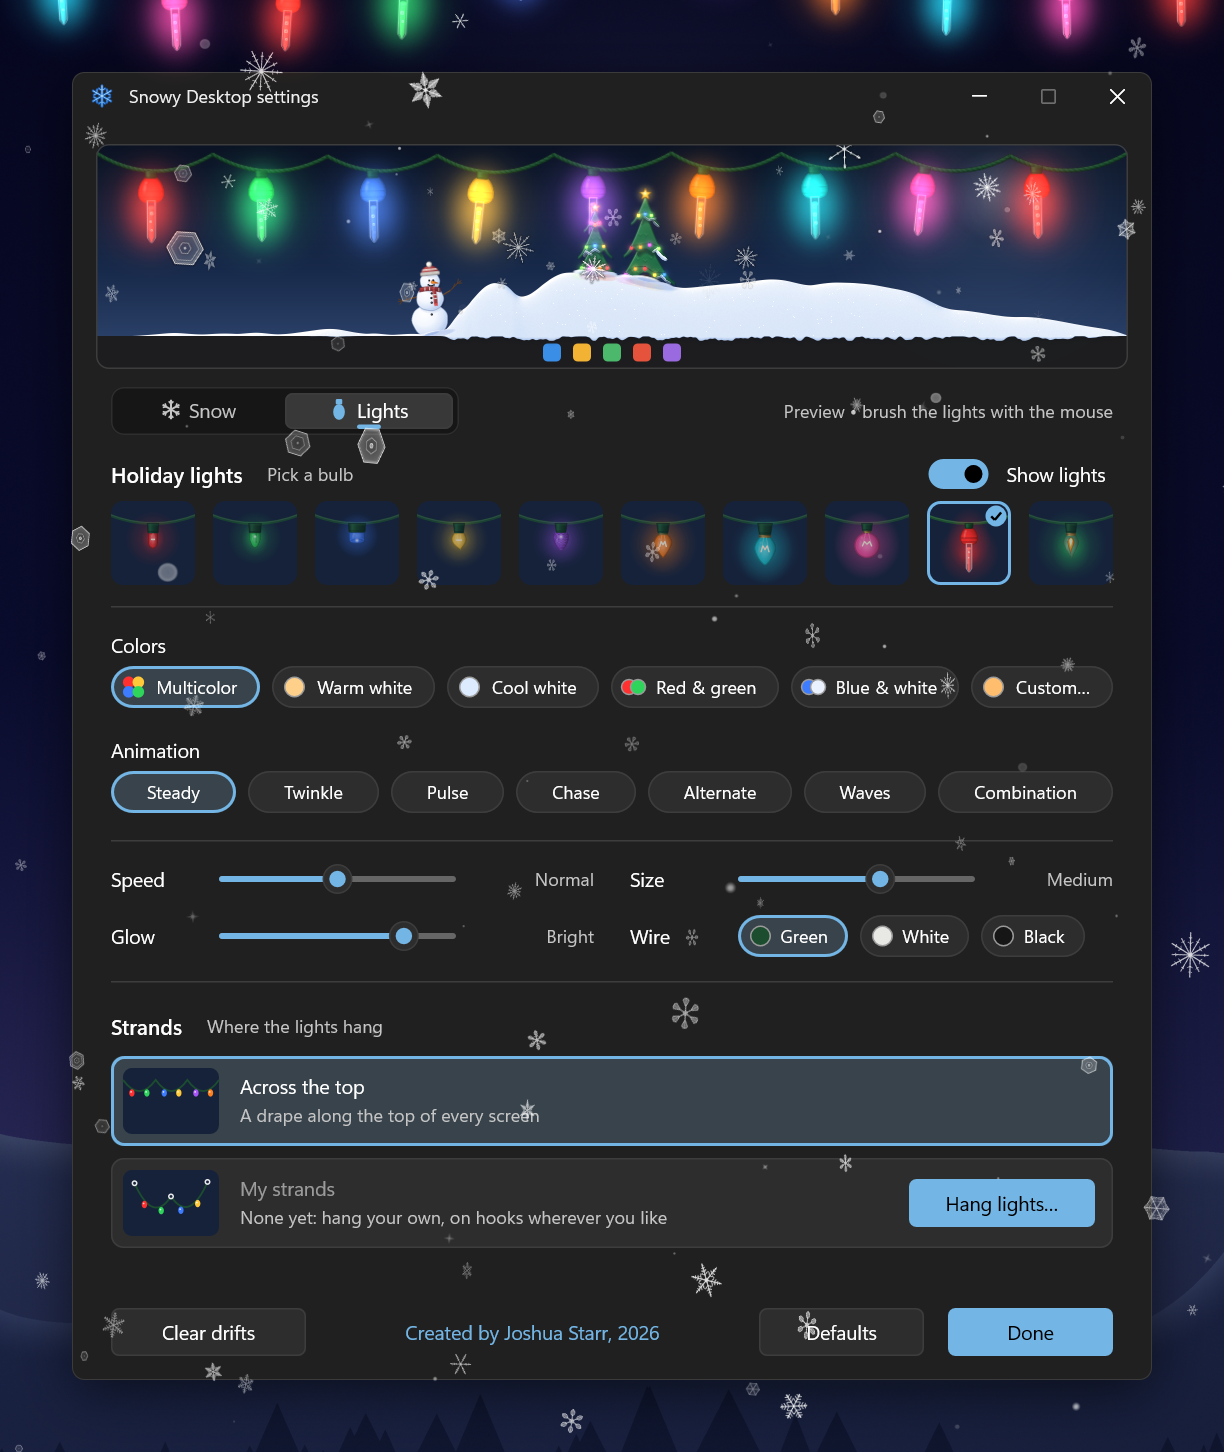
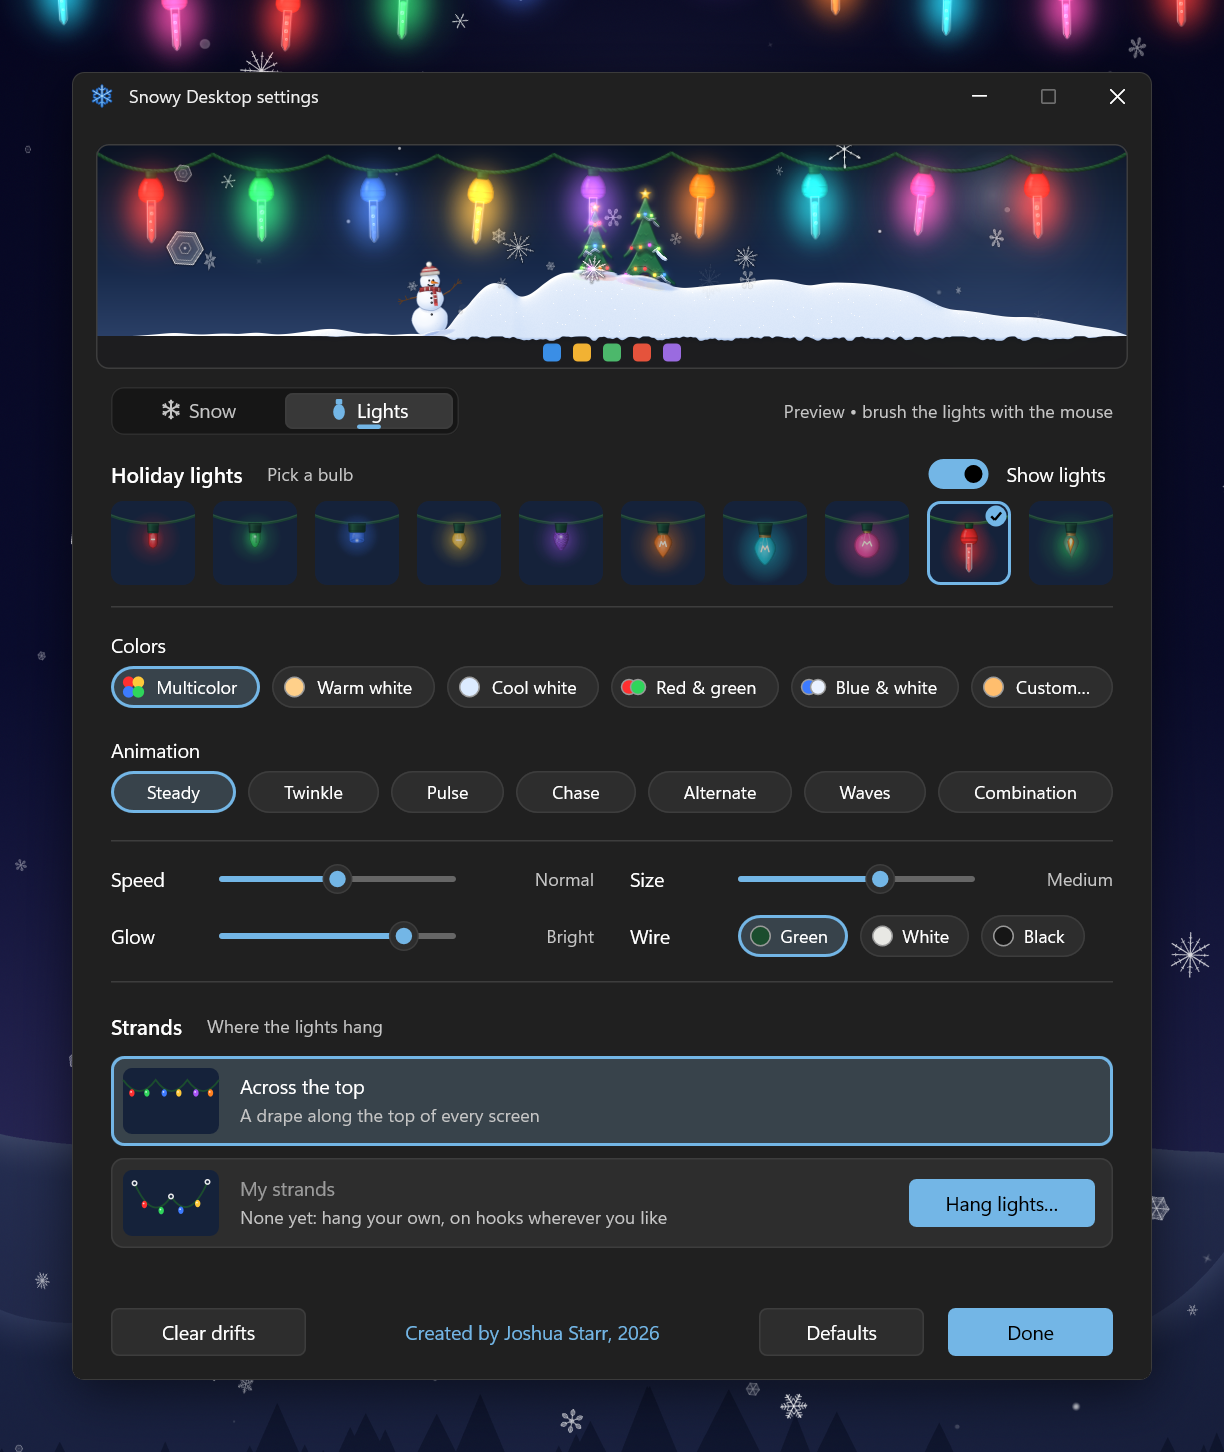
README: holiday lights in full
The holiday lights section covers the ten bulbs (with a gallery), the color
sets, wires and patterns (with a picture of each set), where the strands
hang, and how they stay out of the way. Hang your own describes the real
controls, with a close-up of the hanging-mode bar. The settings section
shows both tabs, the tray menu its Holiday lights submenu, and Build from
source the developer tools. The exe is now about 1 MB.

diff --git a/README.md b/README.md
@@ -1,16 +1,18 @@
 # Snowy Desktop
 
-Snow for your Windows desktop. Flakes drift across every monitor, sway in gusty
-wind, and gently pile up in haphazard drifts along the top of the taskbar. Little
-holiday trees and snowmen stand in the drifts, the trees' lights glowing, and
-strings of holiday lights drape across the top of the screen, or wherever you hang
-them. You can sweep the snow around with your mouse.
+Snow and holiday lights for your Windows desktop. Flakes drift across every monitor,
+sway in gusty wind, and gently pile up in haphazard drifts along the top of the
+taskbar. Strings of holiday lights drape across the top of the screen, or hang
+wherever you put them, glowing and swaying in the wind. Little holiday trees and
+snowmen stand in the drifts, the trees' lights glowing too. You can sweep the snow
+around and brush the lights with your mouse.
 
 ![Holiday lights draped across the top of a Windows 11 desktop at night, snow falling and settling on the taskbar](docs/desktop.png)
 
 Snowy Desktop is a small native Windows 10/11 app written in C++ with Direct2D and
-DirectComposition. It is a single ~0.6 MB `.exe` that lives in the notification
-area, and clicks pass straight through the snow to whatever is underneath.
+DirectComposition. It is a single ~1 MB `.exe` that lives in the notification
+area, and clicks pass straight through the snow and the lights to whatever is
+underneath.
 
 ## Snow drifts
 
@@ -48,42 +50,100 @@ spots, with snowmen in the open stretches between them, turned towards the trees
 ## Holiday lights
 
 Strings of holiday lights drape across the top of every monitor, or hang on hooks
-you place yourself.
+you place yourself. Each span hangs in a natural curve, sways in the gusts and swings
+when you brush it with the mouse, the bulbs jiggling on the wire. Their glow adds
+light to the desktop, and neighboring bulbs' glows run together into a soft band.
 
 ![A strand of glowing multicolor C7 bulbs draped across the top of the screen](docs/lights.png)
 
-- **Ten bulb types**: mini incandescent, mini LED, wide-angle LED, C5, C6
-  strawberry, C7, C9, G40 globe, bubble lights with bubbles rising in their tubes, and
-  flickering candle lamps.
-- **Colors**: multicolor, warm white, cool white, red and green, blue and white, or any
-  custom color. The wire comes in green, white or black.
-- **Animations**: steady, twinkle (bulbs drop out at random), pulse, chase, alternate,
-  waves rolling along the strand, or a combination that cycles through them all, like a
-  real light controller. The *Speed* slider sets the pace.
-- **Real bulbs**: incandescent bulbs warm up and cool down, glowing orange as they dim;
-  LEDs switch crisply and keep their colour. The glow adds light to the desktop, and
-  neighbouring bulbs' glows run together into a soft band.
-- **Gravity and wind**: each span hangs in a natural curve, sways in the gusts, and swings
-  when you brush it with the mouse, the bulbs jiggling on the wire.
-- **Stays out of the way**: when the snow is drawn over windows, the lights fade where a
-  window covers them, so they never sit over your browser tabs. Nothing flashes more
-  than a few times a second at any speed, and with Windows' animation effects turned
-  off the lights burn steadily.
+### Bulbs
+
+Ten kinds of bulb, in true proportion to each other: mini incandescent, mini LED,
+wide-angle LED, C5, C6 strawberry, C7, C9, G40 globe, bubble lights and flickering
+candle lamps.
+
+![All ten bulb types, each on a short strand of multicolor lights: Mini, Mini LED, Wide-angle LED, C5 twinkle, C6 strawberry, C7, C9, Globe, Bubble light and Candle flicker](docs/bulbs.png)
+
+- Incandescent bulbs warm up and cool down, glowing orange as they dim. The LEDs
+  (mini LED, wide-angle LED and C6) switch crisply and keep their color.
+- Bubble lights take a few seconds to warm up before the bubbles rise in their tubes.
+  Candle lamps flicker, and now and then gutter.
+- When the lights come on, the bulbs light one after another along each strand.
+
+### Colors, wire and patterns
+
+![Six strands of C7 bulbs: multicolor, warm white, cool white, red and green, blue and white, and a custom violet, on green, white and black wire](docs/colors.png)
+
+- **Colors**: multicolor, warm white, cool white, red and green, blue and white, or
+  any custom color.
+- **Wire**: green, white or black.
+- **Animation**:
+  - steady;
+  - twinkle: bulbs drop out at random;
+  - pulse: the whole strand breathes;
+  - chase: sets of bulbs march along the strand;
+  - alternate: odd and even bulbs take turns;
+  - waves: brightness rolls along the strand;
+  - combination: each of the others in turn, twelve seconds apiece, cross-fading like
+    a real light controller.
+- **Speed** sets the pace of the pattern, **Size** how big the bulbs are, and **Glow**
+  how much light they throw, from none to dazzling.
+
+### Where they hang
+
+- **Across the top**: one drape along the top of every screen, scalloped between hooks
+  a little irregularly, as if hung by hand. A short screen gets more, shallower
+  scallops.
+- **My strands**: the strands you hung yourself (see below).
+
+### Out of the way
+
+- When the snow is drawn over windows, each bulb fades out where a window covers it
+  and back in when the window moves away, so the lights never sit over your browser
+  tabs. With *Snow behind windows*, windows cover them anyway.
+- No bulb flashes more than three times a second, however fast the *Speed* slider.
+- With Windows' animation effects turned off, the lights burn steadily: they come on
+  all at once and hang still, with no swaying, flickering or bubbling.
+- They hide along with the snow: when it is paused, during fullscreen apps and on the
+  lock screen.
 
 ### Hang your own
 
-Choose *Hang lights...* in the settings or the right-click menu. The screen dims a
-little and a small bar explains the controls:
+Choose *Hang lights...* on the settings window's Lights tab or in the right-click
+menu's *Holiday lights* submenu. The screen dims a little, the mouse works on the
+lights instead of passing through to your windows, and a small bar at the bottom of
+the screen explains the controls. Strands you hung before come back up on their hooks.
+On a screen with none of yours, while the lights hang across the top, the drape comes
+up on hooks of its own, ready to move, add to or take down.
 
 ![Hanging lights: strands across the top and down the sides of the screen, hooks, and the hanging-mode bar](docs/hang-lights.png)
 
-- click to place hooks; a live span sags from the last hook to the pointer, and you can
-  press and drag to place the next one;
-- right-click (or Esc) ends the strand; scroll for more or less sag;
-- drag a hook to move it, Delete removes a hook or strand, Ctrl+Z undoes;
-- hooks snap to the screen edges; along the sides, clips go in on their own so the run
-  scallops gently instead of hanging in one long loop;
-- Enter, Esc or *Done* when you're finished.
+- **Click** to place hooks. A live span sags from the last hook to the pointer. Or
+  press, drag and let go to hang a span in one stroke.
+- **Right-click**, **Esc**, or a click on the strand's last hook ends the strand. A
+  strand needs at least two hooks.
+- **Scroll** for more or less sag: on the span you are placing, or on the span or hook
+  under the pointer.
+- **Drag a hook** to move it (when you are not placing a strand). Esc or a right-click
+  while dragging puts it back.
+- **Delete** removes the hook under the pointer, or the whole strand when the pointer
+  is on its wire. While placing, it takes back the last hook.
+- **Ctrl+Z** or **Backspace** undoes; **Ctrl+Y** or **Ctrl+Shift+Z** redoes.
+- **Clear all** takes every strand down (that can be undone too).
+- Hooks **snap** to the screen edges and corners. Along the sides, clips go in on
+  their own so the run scallops gently instead of hanging in one long loop.
+- **Enter** or *Done* when you're finished, or Esc when no strand or hook is in hand.
+
+The pointer shows what is under it: a crosshair where a click hangs a hook, a four-way
+arrow over a hook you can drag, and a hand over a wire, which Delete and scroll act on.
+The bar shows the sag of the span at hand, or how many strands are up, and steps aside
+while you work near it:
+
+![The hanging-mode bar: the controls in two lines, the sag of the span at hand, and the Clear all and Done buttons](docs/hang-hud.png)
+
+When you're done, the lights come on, hung on your strands (*My strands*); take every
+strand down and the lights go off. Hanging also ends on its own after ten minutes without
+input, or when you switch to another app or lock the screen, keeping what you hung.
 
 Each strand belongs to the monitor it starts on and is kept as fractions of that screen,
 so it stays put when you change the resolution.
@@ -91,50 +151,74 @@ so it stays put when you change the resolution.
 ## Settings
 
 Click the snowflake in the notification area to open the settings. The live preview
-at the top shows your choices immediately, and you can play with the snow there
-using the mouse.
+at the top shows your choices immediately; you can play with the snow there using the
+mouse, and brush the lights. Under it are two tabs, **Snow** and **Lights**.
 
-![The settings window's Lights tab: live preview, bulb picker, colors, animations, sliders and strands](docs/settings.png)
+![The settings window's Snow tab: live preview, flake designs, sliders, snow colors and switches](docs/settings-snow.png)
 
-- **20 flake designs**, each switched on or off individually:
+The **Snow** tab:
+
+- **20 flake designs**, each switched on or off individually (*Select all* and
+  *Recommended* choose in one go):
   - powder, soft bokeh flakes, crosses, asterisks and twinkling sparkles;
   - seven kinds of ice crystal: dendrites, sectored plates, ferns, hexagonal plates, stellar plates, needles and twelve-branched stars;
   - eight classic pixel-art flakes.
-- **Amount, speed, size, wind, gusts and drift depth** sliders, and how many **trees**
+- **Amount, speed, size, wind, gusts and drifts** sliders, and how many **trees**
   and **snowmen**.
 - **Color**: white, ice blue, pastel rainbow, or any custom color.
-- **Lights** (on their own tab): the bulb type, colors, animation, wire, speed, size
-  and glow, and where the strands hang.
 - **Switches**:
-  - pause;
-  - mouse play;
-  - outlines that keep flakes visible over white windows;
+  - pause snow (the lights go with it);
+  - mouse plays with snow (and brushes the lights);
+  - outline flakes on light windows, so they stay visible over white windows;
   - hide during fullscreen apps;
   - snow on all monitors;
   - snow behind windows, so it only shows where the desktop does;
   - show trees and show snowmen;
   - start with Windows.
 
-Right-click the snowflake for a quick menu with presets for everything above.
+![The settings window's Lights tab: live preview, bulb picker, colors, animations, sliders, wire and strands](docs/settings.png)
 
-> Images: rendered by Snowy Desktop's own snow engine and settings window on a staged 4K
-> Windows 11 desktop at 150% scaling (the close-up of the trees and snowmen at 200%).
+The **Lights** tab:
+
+- **Show lights**, and the **bulb**: ten tiles (hover one for its name).
+- **Colors**: multicolor, warm white, cool white, red & green, blue & white, or any
+  custom color.
+- **Animation**: steady, twinkle, pulse, chase, alternate, waves or combination.
+- **Speed, size and glow** sliders, and the **wire**: green, white or black.
+- **Strands**: *Across the top* or *My strands*, with the *Hang lights...* button.
+  *Clear my strands* takes yours down (click it twice).
+
+Along the bottom of both tabs, *Clear drifts* sweeps the taskbar clean and *Defaults*
+puts everything back, except pausing, *Start with Windows* and the strands you hung.
+
+Right-click the snowflake for a quick menu: pause, presets for the snow, the trees and
+the snowmen, the switches, and a *Holiday lights* submenu to show the lights, hang
+them, and pick the bulb, animation, colors, speed (slow, normal or fast) and *Across
+the top* or *My strands*.
+
+> Images: the screenshots are rendered by Snowy Desktop's own snow engine and settings
+> window on a staged 4K Windows 11 desktop at night, at 150% scaling (the close-up of
+> the trees and snowmen at 200%). The bulb and color charts are rendered offscreen by
+> the `lightslab` developer tool, at 200% and 220%.
 
 ## Features
 
-- **Every monitor**: each display gets its own overlay at its own resolution, DPI and refresh rate. A 60 Hz screen next to a 144 Hz one stays smooth.
+- **Every monitor**: each display gets its own overlay at its own resolution, DPI and refresh rate, and its own strands of lights. A 60 Hz screen next to a 144 Hz one stays smooth.
 - **Fluid animation**:
   - GPU rendering paced to each display's vertical blank;
   - depth (parallax, size and opacity);
   - flutter and tumbling plates;
-  - turbulent wind whose gusts sweep across the desktop.
+  - turbulent wind whose gusts sweep across the desktop and swing the lights.
 - **Stays out of the way**:
-  - clicks pass through;
+  - clicks pass through (except while you hang lights);
   - it hides during fullscreen games and videos, on the lock screen, under the screen saver and while the display is off;
   - it doesn't make Windows think a fullscreen app is running;
-  - with *Snow behind windows*, the snow and drifts stay on the desktop: windows cover them, and a monitor with nothing open keeps snowing.
+  - drawn over windows, the trees, snowmen and lights step aside where a window covers them;
+  - with *Snow behind windows*, the snow, drifts and lights stay on the desktop: windows cover them, and a monitor with nothing open keeps snowing.
 - **Light on power**:
   - about 0.3 ms of CPU per frame;
+  - the lights' artwork is drawn once per monitor, so a frame only places, tints and fades sprites, and their sway and patterns take under 0.02 ms for a 4K screen's drape;
+  - the hanging-mode bar is redrawn only when something changes;
   - capped at 60 fps on battery and 30 fps with battery saver or over Remote Desktop.
 
 ## Install
@@ -172,6 +256,31 @@ Requirements:
 `installer/msix/Assets/`; it needs Python with NumPy.
 For frame-timing diagnostics, set `SNOWYSTARR_DEBUG=1` before starting. Each monitor
 then logs its frame pacing to `%TEMP%\snowystarr.log`.
+
+### Developer tools
+
+Configure with `-DSNOWYSTARR_DEV_TOOLS=ON` for three more tools, which draw offscreen
+and never show a window. Each one's options are in the header of its source file in
+`tools/`.
+
+```powershell
+cmake -S . -B build-dev -G "Visual Studio 17 2022" -A x64 -DSNOWYSTARR_DEV_TOOLS=ON
+cmake --build build-dev --config Release    # build-dev\Release\lightslab.exe and the rest
+```
+
+- **`lightslab`** renders holiday lights to a PNG: any bulb, colors, animation and
+  wire, the drape across the top or a strand on hooks you give it, hanging mode,
+  frames stacked to read an animation, or `--gallery` for one row per bulb type.
+- **`settingslab`** renders the settings window to PNGs, either tab, light or dark, at
+  any scale (`--all <dir>` renders both tabs in both themes at 100% and 150%).
+- **`lightsedit_test`** runs the hanging-mode editor's checks without any windows:
+  snapping, side clips, dragging, the wheel, deleting, undo and redo. `--hud out.png`
+  also renders the hanging-mode bar.
+
+The same option gives `snowystarr.exe` a few test switches, read from the environment:
+`SNOWYSTARR_SNAPSHOT=<png>` saves the settings window to a PNG as it opens, `SNOWYSTARR_DRIFT_BOOST=<n>`
+builds drifts faster, `SNOWYSTARR_IGNORE_AWAY=1` keeps it running under the screen saver,
+and `SNOWYSTARR_LIGHTS_CALM=1` shows the lights as with animation effects off.
 
 ## Releasing
 
@@ -216,7 +325,8 @@ attached to GitHub releases.
   - the tray icon and menu;
   - one click-through DirectComposition overlay per monitor;
   - taskbar geometry, and keeping the overlays above the taskbar (or, for snow behind windows, directly above the desktop);
-  - fullscreen, lock and power handling.
+  - fullscreen, lock and power handling;
+  - hanging lights: the overlays take the pointer and the hanging-mode bar the keyboard, until it is done.
 - **`MonitorRenderer`** (one thread per monitor):
   - a composition swap chain on a shared Direct3D 11 / Direct2D device;
   - paced by the swap chain's waitable object, or by the monitor's own vblank when its refresh rate differs from the primary's.
@@ -233,8 +343,9 @@ attached to GitHub releases.
   - lights whose glow adds light to the desktop (it falls back to soft colour on HDR and Auto Color Management displays, where Windows would clamp it).
 - **`Lights`**:
   - the strands of holiday lights: each span a catenary of its own slack (bowing on steep runs), bulbs at even spacing along it, a pendulum sway driven by the wind and the pointer, and bulbs dangling on springs;
-  - patterns, filament warm-up and cool-down per bulb type, and the cover fade (`Lights.cpp`);
-  - their artwork, ten bulb types in layered glass, drawn once per monitor into a sprite page, and glows that add light like the trees' (`LightsArt.cpp`).
-- **`LightsEditor`** and **`LightsHud`**: hanging mode, with the overlays briefly taking the pointer, and its floating bar.
+  - patterns (each capped so no bulb flashes more than three times a second), filament warm-up and cool-down per bulb type, steady lights without animation effects, and the cover fade (`Lights.cpp`);
+  - their artwork, ten bulb types in layered glass, drawn once per monitor into a sprite page that a frame only places, tints and fades, and glows that add light like the trees' (`LightsArt.cpp`).
+- **`LightsEditor`**: hanging mode's hooks, edge snapping, side clips, hit-testing and undo, kept apart from windows and messages so `lightsedit_test` can check it.
+- **`LightsHud`**: hanging mode's floating bar, a layered window drawn only when something changes.
 - **`FlakeArt`**: procedural vector flake designs and a multi-resolution sprite atlas.
-- **`SettingsWindow`**: a small immediate-mode Direct2D UI with a live preview.
+- **`SettingsWindow`**: a small immediate-mode Direct2D UI with a live preview and Snow and Lights tabs.
